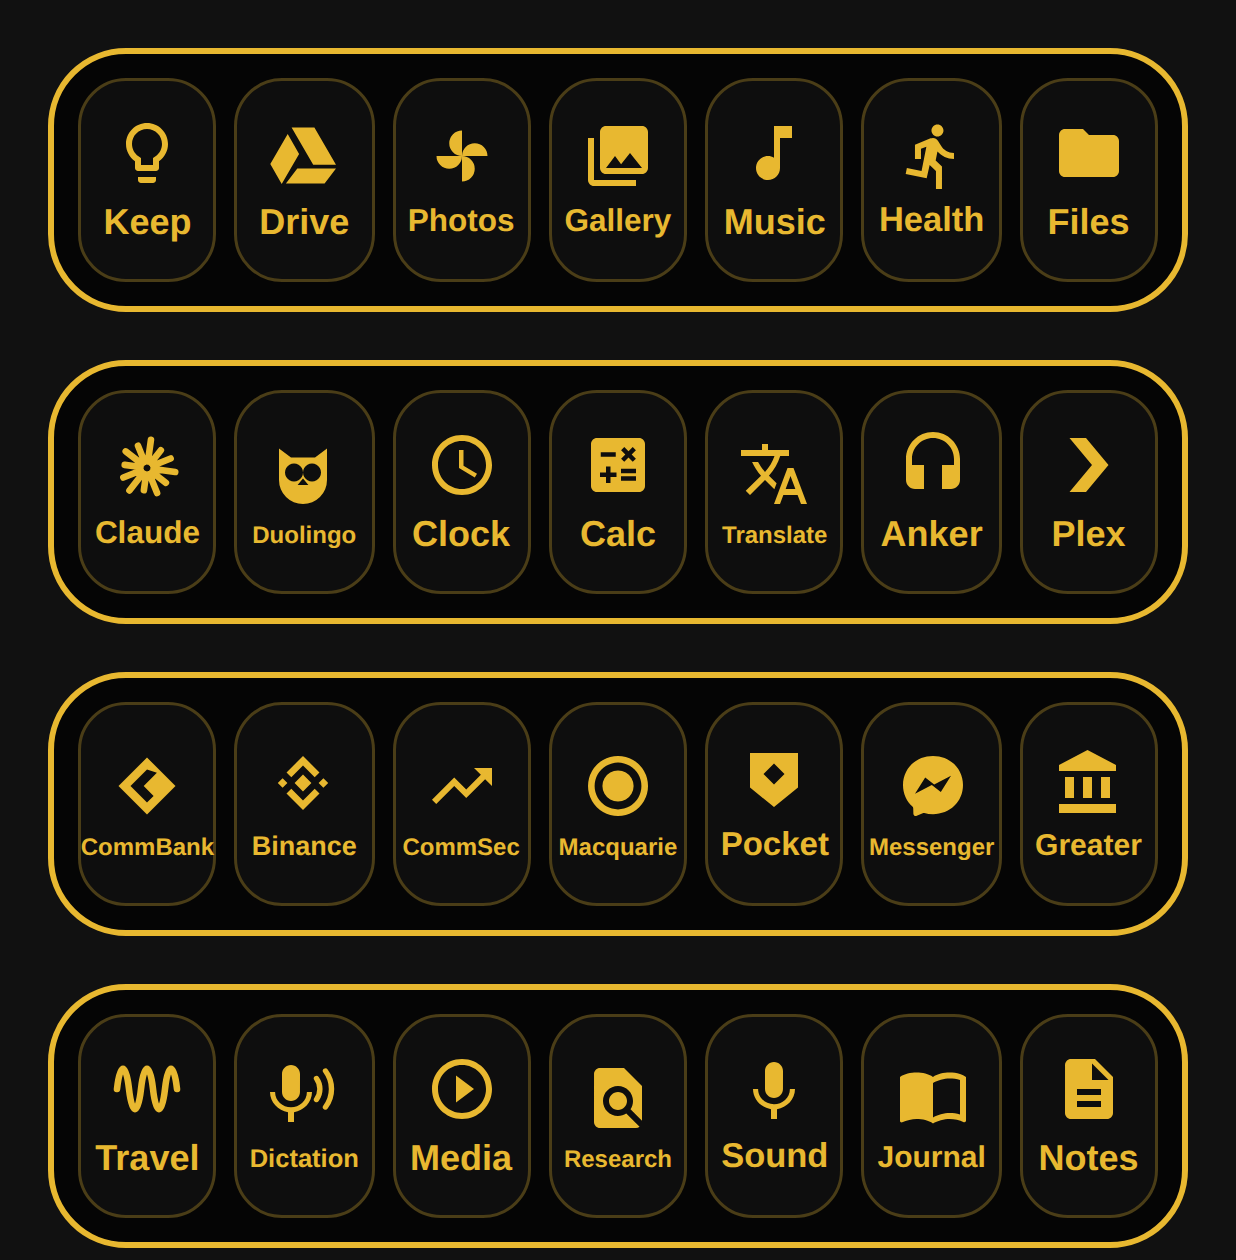
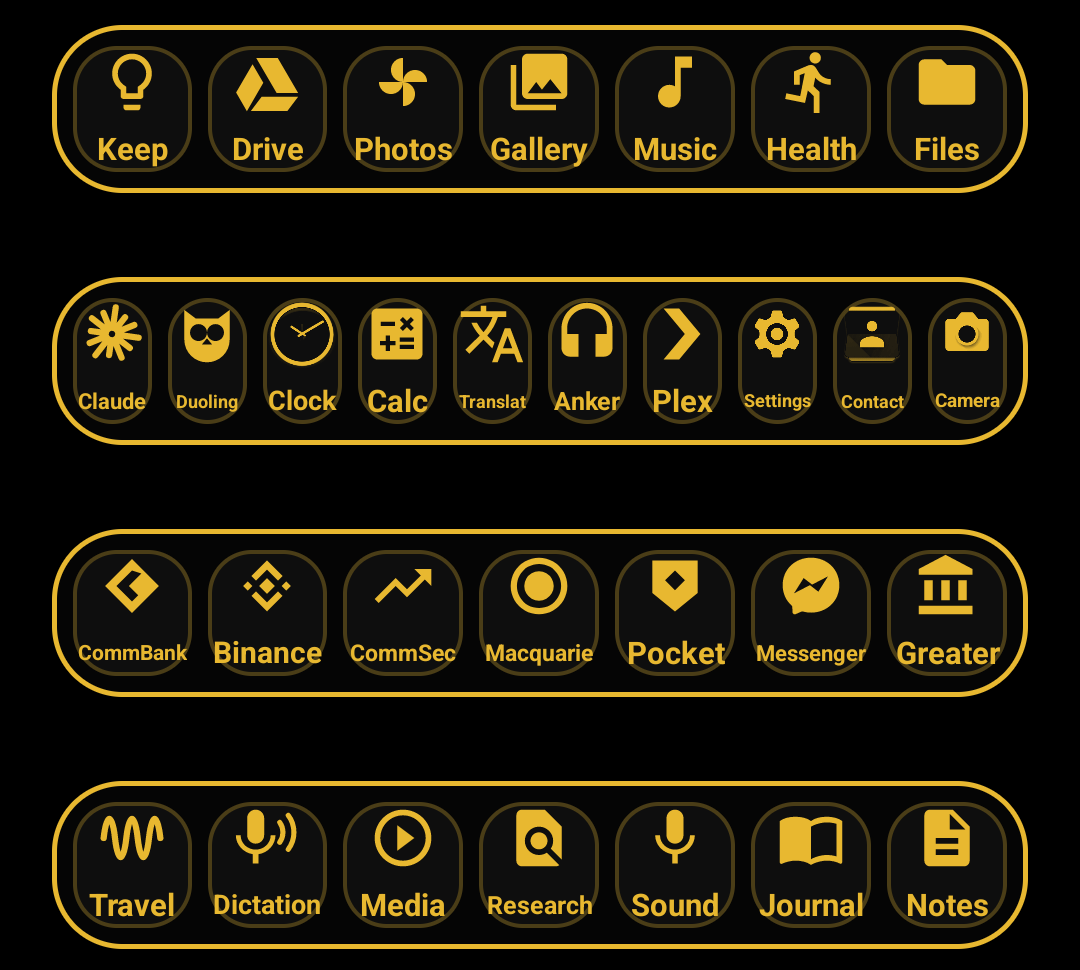
DSR Apps widgets: fixes from on-device testing
Tested on an Android 13 emulator (upgrade from v1.5, settings screen,
10 tiles, gold/app colours, tile taps):
- Built-in gold icons are set with setImageViewResource: Icon resource
  references to this app failed to load in a host without visibility of
  the package, leaving the tiles blank.
- Saved setups could crash the settings screen: the prefs file pads the
  trailing empty slot with spaces, which parsed as a malformed entry.
- Gold versions of other apps' icons keep the details that contrast with
  the icon's main colour, and only fall back to the outline for
  one-colour logos (legacy icons came out as solid blobs).
- Preview image is now a screenshot from the emulator.

Claude-Session: https://claude.ai/code/session_016r35JVmJ1UwfXqH6GGvyk7

diff --git a/DSRAppsWidget/app/src/main/java/com/dsr/appswidget/IconRenderer.java b/DSRAppsWidget/app/src/main/java/com/dsr/appswidget/IconRenderer.java
@@ -29,6 +29,16 @@ final class IconRenderer {
         this.size = Math.round(sizeDp * context.getResources().getDisplayMetrics().density);
     }
 
+    /**
+     * This app's own drawable to show, or 0. Widgets set these with setImageViewResource, which
+     * the home screen loads through the widget's own resources (no package lookup needed).
+     */
+    int builtInResource(WidgetConfig.Entry e, boolean gold) {
+        int builtIn = Icons.drawable(e.icon);
+        if (builtIn == 0) return 0;
+        return gold || appIconResource(e) == 0 ? builtIn : 0;
+    }
+
     /** Null if there is nothing to show (app not installed and no built-in icon). */
     Icon icon(WidgetConfig.Entry e, boolean gold) {
         int builtIn = Icons.drawable(e.icon);
@@ -101,24 +111,28 @@ final class IconRenderer {
         icon.getPixels(px, 0, size, 0, 0, size, size);
 
         int[] buckets = new int[32];
-        int transparent = 0;
         for (int p : px) {
-            int alpha = p >>> 24;
-            if (alpha > 200) buckets[luma(p) >> 3]++;
-            else if (alpha < 50) transparent++;
+            if ((p >>> 24) > 200) buckets[luma(p) >> 3]++;
         }
         int bg = 0;
         for (int i = 1; i < buckets.length; i++) {
             if (buckets[i] > buckets[bg]) bg = i;
         }
         int bgLuma = bg * 8 + 4;
-        // Logo on a transparent background (older icons): use its outline instead.
-        boolean silhouette = transparent > buckets[bg];
 
+        int[] glyph = new int[n];
+        long glyphSum = 0, alphaSum = 0;
         for (int i = 0; i < n; i++) {
             int alpha = px[i] >>> 24;
-            int a = silhouette ? alpha
-                    : Math.min(255, Math.max(0, Math.abs(luma(px[i]) - bgLuma) * 3 - 60)) * alpha / 255;
+            glyph[i] = Math.min(255, Math.max(0, Math.abs(luma(px[i]) - bgLuma) * 3 - 60)) * alpha / 255;
+            glyphSum += glyph[i];
+            alphaSum += alpha;
+        }
+        // Almost no contrasting detail (e.g. a one-colour logo): use the icon's outline instead.
+        boolean silhouette = glyphSum * 16 < alphaSum;
+
+        for (int i = 0; i < n; i++) {
+            int a = silhouette ? px[i] >>> 24 : glyph[i];
             px[i] = (a << 24) | (GOLD & 0xFFFFFF);
         }
         icon.setPixels(px, 0, size, 0, 0, size, size);

diff --git a/DSRAppsWidget/app/src/main/java/com/dsr/appswidget/BaseAppsWidget.java b/DSRAppsWidget/app/src/main/java/com/dsr/appswidget/BaseAppsWidget.java
@@ -43,8 +43,11 @@ public abstract class BaseAppsWidget extends AppWidgetProvider {
         for (int i = 0; i < config.count; i++) {
             WidgetConfig.Entry e = config.entries[i];
             RemoteViews tile = new RemoteViews(pkg, R.layout.tile);
-            Icon icon = e == null ? null : icons.icon(e, config.gold);
-            if (icon != null) {
+            int builtIn = e == null ? 0 : icons.builtInResource(e, config.gold);
+            Icon icon = e == null || builtIn != 0 ? null : icons.icon(e, config.gold);
+            if (builtIn != 0) {
+                tile.setImageViewResource(R.id.icon, builtIn);
+            } else if (icon != null) {
                 tile.setImageViewIcon(R.id.icon, icon);
             } else {
                 tile.setImageViewResource(R.id.icon, e == null ? R.drawable.ic_add : R.drawable.ic_missing);

diff --git a/DSRAppsWidget/app/src/main/java/com/dsr/appswidget/WidgetConfig.java b/DSRAppsWidget/app/src/main/java/com/dsr/appswidget/WidgetConfig.java
@@ -59,8 +59,8 @@ final class WidgetConfig {
         config.gold = prefs.getBoolean("gold_" + widgetId, true);
         String[] lines = apps.split("\n", -1);
         for (int i = 0; i < MAX_COUNT && i < lines.length; i++) {
-            if (lines[i].isEmpty()) continue;
             String[] f = lines[i].split("\t", -1);
+            if (f.length < 5) continue; // empty slot (the prefs file may pad it with spaces)
             Entry e = new Entry();
             e.pkg = orNull(f[0]);
             e.cls = orNull(f[1]);
